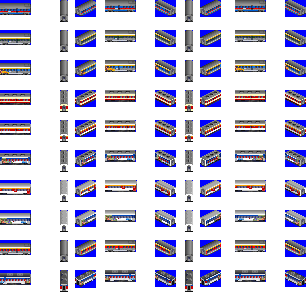
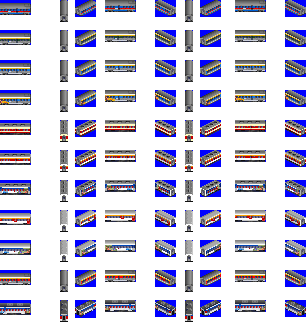
Add: Saemaeul restaurent car (Korail livery)

diff --git a/docs/download_page/korean.html b/docs/download_page/korean.html
@@ -290,7 +290,7 @@
         <td class="introduction">1972</td>
     </tr>
     <tr data-veh_id="CAFE_CAR">
-        <td class="refit"><div><img src="./_static/CAFE_CAR_DHC_1.png" alt="카페/식당 객차"><br /><img src="./_static/CAFE_CAR_DHC_2.png" alt="카페/식당 객차"><br /><img src="./_static/CAFE_CAR_DHC_3.png" alt="카페/식당 객차"><br /><img src="./_static/CAFE_CAR_MUGUNGHWA_RESTAURENT_C.png" alt="카페/식당 객차"><br /><img src="./_static/CAFE_CAR_MUGUNGHWA_RESTAURENT_D.png" alt="카페/식당 객차"><br /><img src="./_static/CAFE_CAR_MUGUNGHWA_CAFE_E.png" alt="카페/식당 객차"><br /><img src="./_static/CAFE_CAR_MUGUNGHWA_RESTAURANT_F.png" alt="카페/식당 객차"><br /><img src="./_static/CAFE_CAR_MUGUNGHWA_CAFE_RED_BLUE_WHITE.png" alt="카페/식당 객차"><br /><img src="./_static/CAFE_CAR_MUGUNGHWA_STREAMLINE.png" alt="카페/식당 객차"><br /><img src="./_static/CAFE_CAR_RDC.png" alt="카페/식당 객차"></div></td>
+        <td class="refit"><div><img src="./_static/CAFE_CAR_DHC_1.png" alt="카페/식당 객차"><br /><img src="./_static/CAFE_CAR_DHC_2.png" alt="카페/식당 객차"><br /><img src="./_static/CAFE_CAR_SAEMAEUL_RESTAURENT.png" alt="카페/식당 객차"><br /><img src="./_static/CAFE_CAR_DHC_3.png" alt="카페/식당 객차"><br /><img src="./_static/CAFE_CAR_MUGUNGHWA_RESTAURENT_C.png" alt="카페/식당 객차"><br /><img src="./_static/CAFE_CAR_MUGUNGHWA_RESTAURENT_D.png" alt="카페/식당 객차"><br /><img src="./_static/CAFE_CAR_MUGUNGHWA_CAFE_E.png" alt="카페/식당 객차"><br /><img src="./_static/CAFE_CAR_MUGUNGHWA_RESTAURANT_F.png" alt="카페/식당 객차"><br /><img src="./_static/CAFE_CAR_MUGUNGHWA_CAFE_RED_BLUE_WHITE.png" alt="카페/식당 객차"><br /><img src="./_static/CAFE_CAR_MUGUNGHWA_STREAMLINE.png" alt="카페/식당 객차"><br /><img src="./_static/CAFE_CAR_RDC.png" alt="카페/식당 객차"></div></td>
         <td class="name">카페/식당 객차</td>
         <td class="speed">120 km/h</td>
         <td class="speed_designed">120 km/h</td>

diff --git a/docs/download_page/english.html b/docs/download_page/english.html
@@ -290,7 +290,7 @@
         <td class="introduction">1972</td>
     </tr>
     <tr data-veh_id="CAFE_CAR">
-        <td class="refit"><div><img src="./_static/CAFE_CAR_DHC_1.png" alt="Cafe/Restaurant car"><br /><img src="./_static/CAFE_CAR_DHC_2.png" alt="Cafe/Restaurant car"><br /><img src="./_static/CAFE_CAR_DHC_3.png" alt="Cafe/Restaurant car"><br /><img src="./_static/CAFE_CAR_MUGUNGHWA_RESTAURENT_C.png" alt="Cafe/Restaurant car"><br /><img src="./_static/CAFE_CAR_MUGUNGHWA_RESTAURENT_D.png" alt="Cafe/Restaurant car"><br /><img src="./_static/CAFE_CAR_MUGUNGHWA_CAFE_E.png" alt="Cafe/Restaurant car"><br /><img src="./_static/CAFE_CAR_MUGUNGHWA_RESTAURANT_F.png" alt="Cafe/Restaurant car"><br /><img src="./_static/CAFE_CAR_MUGUNGHWA_CAFE_RED_BLUE_WHITE.png" alt="Cafe/Restaurant car"><br /><img src="./_static/CAFE_CAR_MUGUNGHWA_STREAMLINE.png" alt="Cafe/Restaurant car"><br /><img src="./_static/CAFE_CAR_RDC.png" alt="Cafe/Restaurant car"></div></td>
+        <td class="refit"><div><img src="./_static/CAFE_CAR_DHC_1.png" alt="Cafe/Restaurant car"><br /><img src="./_static/CAFE_CAR_DHC_2.png" alt="Cafe/Restaurant car"><br /><img src="./_static/CAFE_CAR_SAEMAEUL_RESTAURENT.png" alt="Cafe/Restaurant car"><br /><img src="./_static/CAFE_CAR_DHC_3.png" alt="Cafe/Restaurant car"><br /><img src="./_static/CAFE_CAR_MUGUNGHWA_RESTAURENT_C.png" alt="Cafe/Restaurant car"><br /><img src="./_static/CAFE_CAR_MUGUNGHWA_RESTAURENT_D.png" alt="Cafe/Restaurant car"><br /><img src="./_static/CAFE_CAR_MUGUNGHWA_CAFE_E.png" alt="Cafe/Restaurant car"><br /><img src="./_static/CAFE_CAR_MUGUNGHWA_RESTAURANT_F.png" alt="Cafe/Restaurant car"><br /><img src="./_static/CAFE_CAR_MUGUNGHWA_CAFE_RED_BLUE_WHITE.png" alt="Cafe/Restaurant car"><br /><img src="./_static/CAFE_CAR_MUGUNGHWA_STREAMLINE.png" alt="Cafe/Restaurant car"><br /><img src="./_static/CAFE_CAR_RDC.png" alt="Cafe/Restaurant car"></div></td>
         <td class="name">Cafe/Restaurant car</td>
         <td class="speed">120 km/h</td>
         <td class="speed_designed">120 km/h</td>

diff --git a/docs/contributors_graphic.md b/docs/contributors_graphic.md
@@ -107,11 +107,11 @@
 | ![img](https://github.com/KoreanGRF/KoreanTrainSet/blob/master/src/misc/simple_waypoint.png?raw=true) | ``simple_waypoint`` | Modified by [@telk5093](https://github.com/telk5093) | modified from OpenGFX |
 | ![img](https://github.com/KoreanGRF/KoreanTrainSet/blob/master/src/object/object.png?raw=true) | ``KR_BUFFER`` | [@telk5093](https://github.com/telk5093) | |
 | ![img](https://github.com/KoreanGRF/KoreanTrainSet/blob/master/src/wagon/baggage_car/BAGGAGE_CAR.png?raw=true) | ``BAGGAGE_CAR`` | [@opentrain](https://github.com/opentrain) | |
-| ![img](https://github.com/KoreanGRF/KoreanTrainSet/blob/master/src/wagon/baggage_car/BIDULGI.png?raw=true) | ``BIDULGI`` (Baggage_car |[@Gamunbi](https://github.com/Gamunbi) | [#40](https://github.com/KoreanGRF/KoreanTrainSet/issues/40)|
+| ![img](https://github.com/KoreanGRF/KoreanTrainSet/blob/master/src/wagon/baggage_car/BIDULGI.png?raw=true) | ``BIDULGI`` (Baggage_car |[@Gamunbi](https://github.com/Gamunbi) | [#40](https://github.com/KoreanGRF/KoreanTrainSet/issues/40) |
 | ![img](https://github.com/KoreanGRF/KoreanTrainSet/blob/master/src/wagon/mugunghwa_car/MUGUNGHWA_CAR.png?raw=true) | ``MUGUNGHWA_CAR`` | skyu? | |
 | ![img](https://github.com/KoreanGRF/KoreanTrainSet/blob/master/src/wagon/tongil_car/TONGIL_CAR.png?raw=true) | ``TONGIL_CAR`` | [@Gamunbi](https://github.com/Gamunbi) | [#134](https://github.com/KoreanGRF/KoreanTrainSet/issues/134) |
-| ![img](https://github.com/KoreanGRF/KoreanTrainSet/blob/master/src/wagon/bidulgi_car/BIDULGI_CAR.png?raw=true) | ``BIDULGI_CAR`` |[@Gamunbi](https://github.com/Gamunbi) | [#40](https://github.com/KoreanGRF/KoreanTrainSet/issues/40)|
-| ![img](https://github.com/KoreanGRF/KoreanTrainSet/blob/master/src/wagon/cafe_car/CAFE_CAR.png?raw=true) | ``CAFE_CAR`` | | |
+| ![img](https://github.com/KoreanGRF/KoreanTrainSet/blob/master/src/wagon/bidulgi_car/BIDULGI_CAR.png?raw=true) | ``BIDULGI_CAR`` |[@Gamunbi](https://github.com/Gamunbi) | [#40](https://github.com/KoreanGRF/KoreanTrainSet/issues/40) |
+| ![img](https://github.com/KoreanGRF/KoreanTrainSet/blob/master/src/wagon/cafe_car/CAFE_CAR.png?raw=true) | ``CAFE_CAR`` | Modified by [@ChuoSpecialRapid201](https://github.com/ChuoSpecialRapid201) | [#86](https://github.com/KoreanGRF/KoreanTrainSet/issues/86), [#87](https://github.com/KoreanGRF/KoreanTrainSet/issues/87), [#118](https://github.com/KoreanGRF/KoreanTrainSet/issues/118), [#136](https://github.com/KoreanGRF/KoreanTrainSet/issues/136), [#139](https://github.com/KoreanGRF/KoreanTrainSet/issues/139), [#141](https://github.com/KoreanGRF/KoreanTrainSet/issues/141), [#145](https://github.com/KoreanGRF/KoreanTrainSet/issues/145), [#184](https://github.com/KoreanGRF/KoreanTrainSet/issues/184), [#185](https://github.com/KoreanGRF/KoreanTrainSet/issues/185) |
 | ![img](https://github.com/KoreanGRF/KoreanTrainSet/blob/master/src/wagon/flat_car/FLAT_CAR.png?raw=true) | ``FLAT_CAR`` | skyu | |
 | ![img](https://github.com/KoreanGRF/KoreanTrainSet/blob/master/src/wagon/baggage_car/V-train_wagon.png?raw=true) | V-train and its wagons | Las | [https://cafe.naver.com/ottd/10466](https://cafe.naver.com/ottd/10466) |
 | ![img](https://github.com/KoreanGRF/KoreanTrainSet/blob/master/src/wagon/generator_car/generator_car.png?raw=true) | ``generator_car`` | | |

diff --git a/docs/download_page/korean.md b/docs/download_page/korean.md
@@ -290,7 +290,7 @@
         <td class="introduction">1972</td>
     </tr>
     <tr data-veh_id="CAFE_CAR">
-        <td class="refit"><div><img src="./_static/CAFE_CAR_DHC_1.png" alt="카페/식당 객차"><br /><img src="./_static/CAFE_CAR_DHC_2.png" alt="카페/식당 객차"><br /><img src="./_static/CAFE_CAR_DHC_3.png" alt="카페/식당 객차"><br /><img src="./_static/CAFE_CAR_MUGUNGHWA_RESTAURENT_C.png" alt="카페/식당 객차"><br /><img src="./_static/CAFE_CAR_MUGUNGHWA_RESTAURENT_D.png" alt="카페/식당 객차"><br /><img src="./_static/CAFE_CAR_MUGUNGHWA_CAFE_E.png" alt="카페/식당 객차"><br /><img src="./_static/CAFE_CAR_MUGUNGHWA_RESTAURANT_F.png" alt="카페/식당 객차"><br /><img src="./_static/CAFE_CAR_MUGUNGHWA_CAFE_RED_BLUE_WHITE.png" alt="카페/식당 객차"><br /><img src="./_static/CAFE_CAR_MUGUNGHWA_STREAMLINE.png" alt="카페/식당 객차"><br /><img src="./_static/CAFE_CAR_RDC.png" alt="카페/식당 객차"></div></td>
+        <td class="refit"><div><img src="./_static/CAFE_CAR_DHC_1.png" alt="카페/식당 객차"><br /><img src="./_static/CAFE_CAR_DHC_2.png" alt="카페/식당 객차"><br /><img src="./_static/CAFE_CAR_SAEMAEUL_RESTAURENT.png" alt="카페/식당 객차"><br /><img src="./_static/CAFE_CAR_DHC_3.png" alt="카페/식당 객차"><br /><img src="./_static/CAFE_CAR_MUGUNGHWA_RESTAURENT_C.png" alt="카페/식당 객차"><br /><img src="./_static/CAFE_CAR_MUGUNGHWA_RESTAURENT_D.png" alt="카페/식당 객차"><br /><img src="./_static/CAFE_CAR_MUGUNGHWA_CAFE_E.png" alt="카페/식당 객차"><br /><img src="./_static/CAFE_CAR_MUGUNGHWA_RESTAURANT_F.png" alt="카페/식당 객차"><br /><img src="./_static/CAFE_CAR_MUGUNGHWA_CAFE_RED_BLUE_WHITE.png" alt="카페/식당 객차"><br /><img src="./_static/CAFE_CAR_MUGUNGHWA_STREAMLINE.png" alt="카페/식당 객차"><br /><img src="./_static/CAFE_CAR_RDC.png" alt="카페/식당 객차"></div></td>
         <td class="name">카페/식당 객차</td>
         <td class="speed">120 km/h</td>
         <td class="speed_designed">120 km/h</td>

diff --git a/docs/download_page/english.md b/docs/download_page/english.md
@@ -290,7 +290,7 @@
         <td class="introduction">1972</td>
     </tr>
     <tr data-veh_id="CAFE_CAR">
-        <td class="refit"><div><img src="./_static/CAFE_CAR_DHC_1.png" alt="Cafe/Restaurant car"><br /><img src="./_static/CAFE_CAR_DHC_2.png" alt="Cafe/Restaurant car"><br /><img src="./_static/CAFE_CAR_DHC_3.png" alt="Cafe/Restaurant car"><br /><img src="./_static/CAFE_CAR_MUGUNGHWA_RESTAURENT_C.png" alt="Cafe/Restaurant car"><br /><img src="./_static/CAFE_CAR_MUGUNGHWA_RESTAURENT_D.png" alt="Cafe/Restaurant car"><br /><img src="./_static/CAFE_CAR_MUGUNGHWA_CAFE_E.png" alt="Cafe/Restaurant car"><br /><img src="./_static/CAFE_CAR_MUGUNGHWA_RESTAURANT_F.png" alt="Cafe/Restaurant car"><br /><img src="./_static/CAFE_CAR_MUGUNGHWA_CAFE_RED_BLUE_WHITE.png" alt="Cafe/Restaurant car"><br /><img src="./_static/CAFE_CAR_MUGUNGHWA_STREAMLINE.png" alt="Cafe/Restaurant car"><br /><img src="./_static/CAFE_CAR_RDC.png" alt="Cafe/Restaurant car"></div></td>
+        <td class="refit"><div><img src="./_static/CAFE_CAR_DHC_1.png" alt="Cafe/Restaurant car"><br /><img src="./_static/CAFE_CAR_DHC_2.png" alt="Cafe/Restaurant car"><br /><img src="./_static/CAFE_CAR_SAEMAEUL_RESTAURENT.png" alt="Cafe/Restaurant car"><br /><img src="./_static/CAFE_CAR_DHC_3.png" alt="Cafe/Restaurant car"><br /><img src="./_static/CAFE_CAR_MUGUNGHWA_RESTAURENT_C.png" alt="Cafe/Restaurant car"><br /><img src="./_static/CAFE_CAR_MUGUNGHWA_RESTAURENT_D.png" alt="Cafe/Restaurant car"><br /><img src="./_static/CAFE_CAR_MUGUNGHWA_CAFE_E.png" alt="Cafe/Restaurant car"><br /><img src="./_static/CAFE_CAR_MUGUNGHWA_RESTAURANT_F.png" alt="Cafe/Restaurant car"><br /><img src="./_static/CAFE_CAR_MUGUNGHWA_CAFE_RED_BLUE_WHITE.png" alt="Cafe/Restaurant car"><br /><img src="./_static/CAFE_CAR_MUGUNGHWA_STREAMLINE.png" alt="Cafe/Restaurant car"><br /><img src="./_static/CAFE_CAR_RDC.png" alt="Cafe/Restaurant car"></div></td>
         <td class="name">Cafe/Restaurant car</td>
         <td class="speed">120 km/h</td>
         <td class="speed_designed">120 km/h</td>

diff --git a/docs/changelog.md b/docs/changelog.md
@@ -3,6 +3,7 @@
   * 추가: 2x00호대 디젤 기관차 [#90]
   * 추가: 5·6000호대 디젤 기관차 [#176]
   * 추가: 무궁화호 식당차 (1980년대 도색) [#185]
+  * 추가: 새마을호 식당차 (Korail 현 도색) [#184]
   * 추가: 7000호대 디젤 기관차 도색 2종 [#188]
   * 변경: 부산 1호선 구 도색 그래픽 개선 [#183]
   * 변경: 무궁화호 객차 그래픽 개선 [#180]
